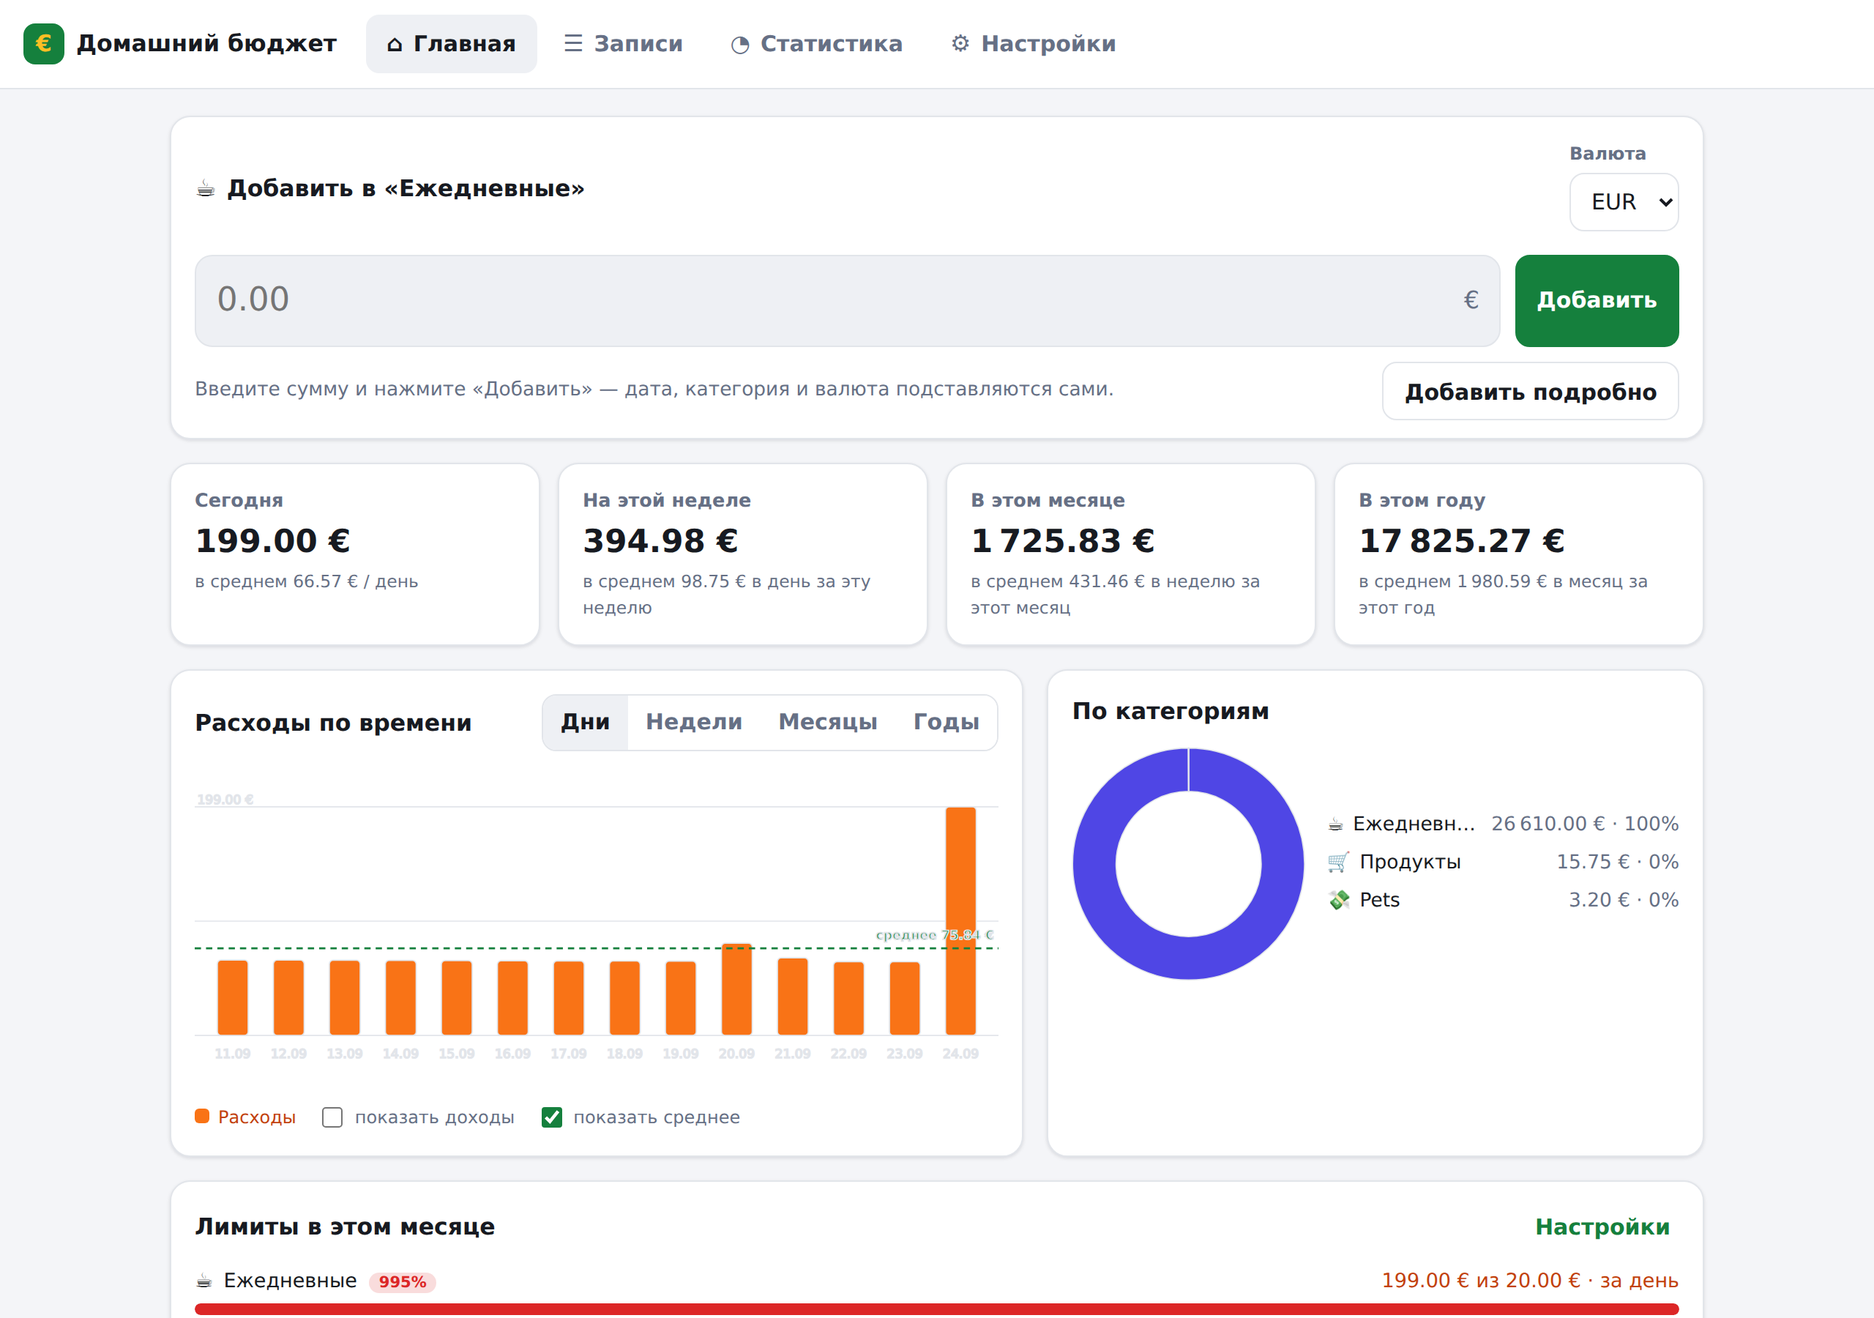
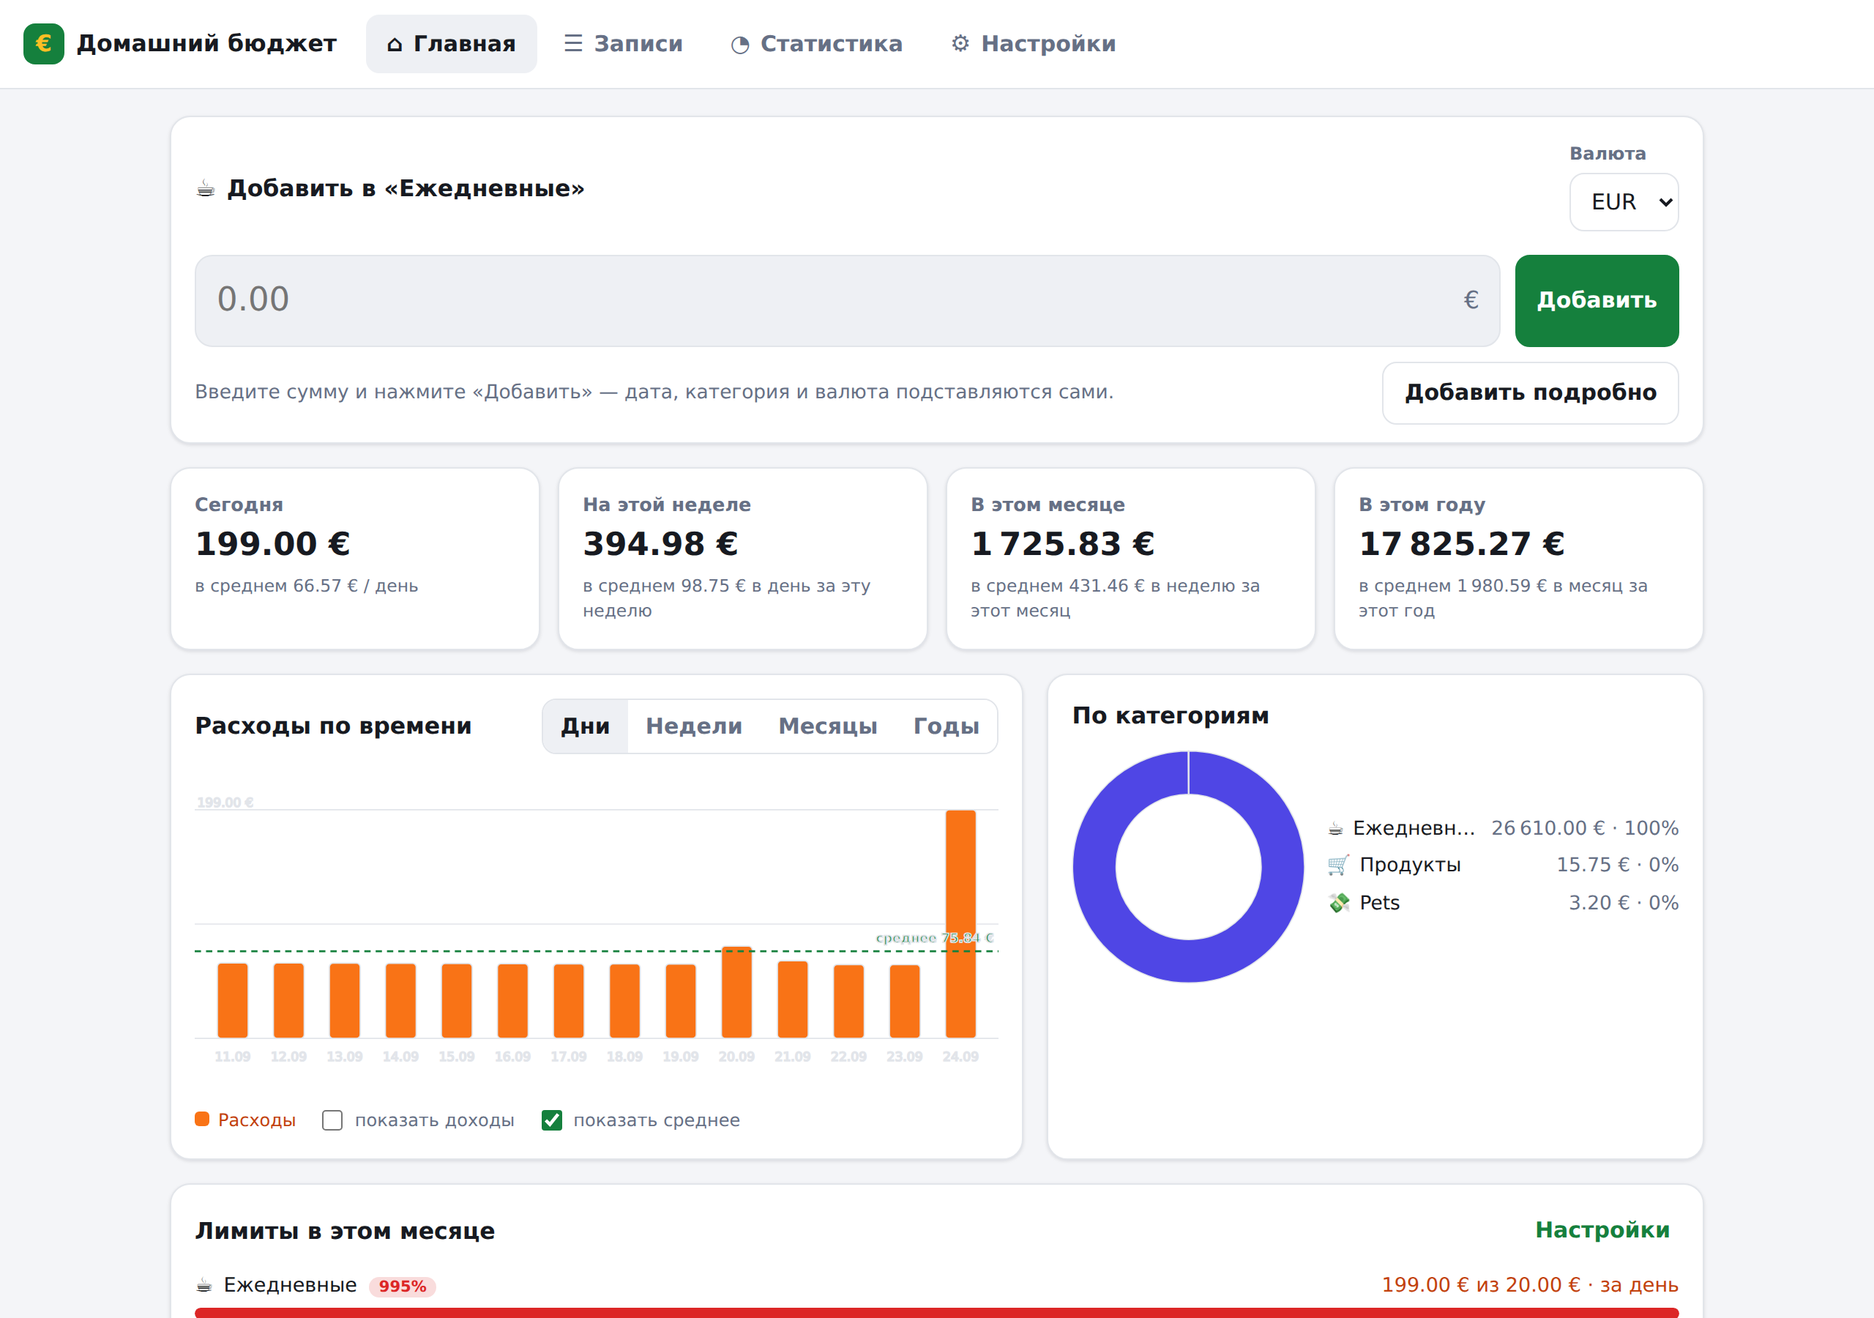
version 3.13.0

diff --git a/src/app.css b/src/app.css
@@ -200,7 +200,7 @@ button, input, select { font: inherit; color: inherit; }
    drops under the hint rather than squeezing it. */
 .quick-more { display: flex; flex-wrap: wrap; align-items: center; gap: 10px; margin-top: 10px; }
 .quick-more .quick-hint { flex: 1 1 220px; margin: 0; }
-.quick-more button { height: var(--control-height); white-space: nowrap; }
+.quick-more button { white-space: nowrap; }
 .quick-message { margin-top: 8px; font-size: .88rem; min-height: 1.2em; color: var(--muted); }
 .quick-message.ok { color: var(--income); }
 .quick-message.error { color: var(--danger); }
@@ -289,6 +289,11 @@ input:focus-visible, select:focus-visible, button:focus-visible {
   display: grid;
   grid-template-rows: auto auto auto;
   align-content: start;
+  /* Each part sits at the top of its row instead of stretching to fill it. When
+     something in the line is taller than a control - two buttons that had to
+     take a line each in a longer language - a control that stretches centres
+     itself in that height and drops below its neighbours. */
+  align-items: start;
   padding-bottom: 8px;
 }
 @supports (grid-template-rows: subgrid) {
@@ -299,16 +304,41 @@ input:focus-visible, select:focus-visible, button:focus-visible {
     min-height: calc(var(--label-height) * 2);
   }
 }
+/* A <select> is as wide as its widest option and an <input> as wide as its size
+   attribute. In a grid that means spilling over the cell next door: "Все
+   категории ☕ Ежедневные" pushed the currency filter 45 pixels under the search
+   box beside it. Inside a row of fields a control is the width of its cell, and
+   min-width: 0 is what lets it actually shrink to that. */
+.filters > .field > select,
+.filters > .field > input,
+.filters > .field > .date-input,
+.inline-form > .field > select,
+.inline-form > .field > input { width: 100%; min-width: 0; }
+/* The date field is a text box and a calendar button sharing that width. */
+.filters > .field > .date-input .date-text { flex: 1 1 auto; width: auto; min-width: 0; }
+
 /* The error message is a sentence, not a field: it takes the whole width. */
 .inline-form > .error { grid-column: 1 / -1; margin: 0; }
-.filter-buttons { display: flex; gap: 8px; }
 .filters-box { margin-bottom: 4px; }
 .filters-box > summary { cursor: pointer; color: var(--muted); font-weight: 600; font-size: .85rem; padding: 4px 0; }
 .filters-box[open] > summary { margin-bottom: 8px; }
 .entry-row { cursor: pointer; }
 /* Buttons that stand in a row with form controls are exactly as tall as they are. */
+/* A button standing in a row with form controls is never shorter than they are,
+   so the row reads as one line - but never taller than its own words either.
+   `height` used to be exact here, which looked right in English and spilled the
+   text of a longer language straight out of the button: "В этом месяце" wrapped
+   to two lines inside a 40 pixel box and printed the second one over the card. */
 .inline-form button, .filters button, .button-row > button, .file-button,
-.install-row button { height: var(--control-height); }
+.install-row button, .quick-more button {
+  min-height: var(--control-height);
+  height: auto;
+}
+/* Two buttons sharing one cell of the field grid. When their words do not fit
+   side by side they take a line each, full width, rather than shrinking into
+   columns too narrow for a word - which is what pushed "Сбросить" off screen. */
+.filter-buttons { display: flex; flex-wrap: wrap; gap: 8px; }
+.filter-buttons > button { flex: 1 1 auto; }
 
 /* ---------- lists and tables ---------- */
 .summary { display: flex; flex-wrap: wrap; gap: 16px; margin: 12px 0; font-size: .9rem; font-weight: 600; }
@@ -469,6 +499,9 @@ svg .grid { fill: none; }
 /* ---------- transfer ---------- */
 .transfer { display: grid; grid-template-columns: 1fr 1fr; gap: 16px; }
 .transfer-block { display: flex; flex-direction: column; gap: 8px; }
+/* The file chooser is a button, so it is as wide as its word - not as wide
+   as the column, which is what a stretched flex child would be. */
+.transfer-block > .file-button { align-self: start; }
 .transfer-block h3 { font-size: .95rem; }
 .import-preview {
   margin-top: 16px;
@@ -505,6 +538,8 @@ svg .grid { fill: none; }
   body[data-mode="auto"] .grid,
   body[data-mode="auto"] .transfer { grid-template-columns: 1fr; }
   body[data-mode="auto"] .app-bar { gap: 10px; }
+  body[data-mode="auto"] .tab { padding: 8px 10px; }
+  body[data-mode="auto"] .brand { white-space: nowrap; }
   body[data-mode="auto"] .hide-sm { display: none; }
   body[data-mode="auto"] .main { padding: 14px 12px 32px; }
 }
@@ -515,8 +550,14 @@ body[data-mode="mobile"] .transfer { grid-template-columns: 1fr; }
 body[data-mode="mobile"] .hide-sm { display: none; }
 body[data-mode="mobile"] .main { max-width: 560px; padding: 14px 12px 32px; }
 body[data-mode="mobile"] .cards { grid-template-columns: repeat(2, 1fr); }
-body[data-mode="mobile"] .app-bar { position: sticky; }
+body[data-mode="mobile"] .app-bar { position: sticky; gap: 10px; }
 body[data-mode="mobile"] .tabs { flex: 1; justify-content: space-around; }
+/* The bar has one line to fit a name and four tabs. "Home Budget" left room to
+   spare; "Haushaltsbudget" ran 7 pixels past the edge and "Домашний бюджет"
+   wrapped, which made the sticky bar twice as tall on every screen. The icons
+   are what give the room back - they do not need the padding of a word. */
+body[data-mode="mobile"] .tab { padding: 8px 10px; }
+body[data-mode="mobile"] .brand { white-space: nowrap; }
 
 /* The narrow layout, whichever way it was reached. */
 @media (max-width: 720px) {
@@ -536,8 +577,6 @@ body[data-mode="mobile"] .tabs { flex: 1; justify-content: space-around; }
   body[data-mode="auto"] .rate-input { width: 84px; }
   /* Two selects fit a phone; a third squeezed to nothing. */
   body[data-mode="auto"] .filters > .field { flex: 1 1 140px; }
-  body[data-mode="auto"] .filters select,
-  body[data-mode="auto"] .filters input { width: 100%; }
   body[data-mode="auto"] .inline-form > .field { flex: 1 1 130px; }
   body[data-mode="auto"] .translation-table { max-height: 260px; }
 }
@@ -552,8 +591,6 @@ body[data-mode="mobile"] th,
 body[data-mode="mobile"] td { padding-left: 5px; padding-right: 5px; }
 body[data-mode="mobile"] .rate-input { width: 84px; }
 body[data-mode="mobile"] .filters > .field { flex: 1 1 140px; }
-body[data-mode="mobile"] .filters select,
-body[data-mode="mobile"] .filters input { width: 100%; }
 body[data-mode="mobile"] .inline-form > .field { flex: 1 1 130px; }
 body[data-mode="mobile"] .translation-table { max-height: 260px; }
 

diff --git a/src/ui/views/settings.js b/src/ui/views/settings.js
@@ -4,7 +4,7 @@ import { CUSTOM_LANGUAGE, EN, LANGUAGES, sanitizeTranslation, translationKeys } 
 import { formatMoney, parseAmount, toPlainAmount } from '../../core/format.js';
 import { ICON_CHOICES, LIMIT_PERIODS } from '../../core/model.js';
 import { APP_VERSION, REPO_URL, SITE_URL } from '../../core/version.js';
-import { actionButton, el, field, fieldSlot, options, render } from '../dom.js';
+import { actionButton, el, field, fieldSlot, fileButton, options, render } from '../dom.js';
 import { download, MIME } from '../files.js';
 
 export function settingsView(app) {
@@ -159,13 +159,7 @@ export function settingsView(app) {
       el('p.muted', { text: t('settings.dataHint', { storage: app.storageKind }) }),
       el('div.button-row', {}, [
         el('button', { type: 'button', text: t('settings.backup'), on: { click: () => backup(app) } }),
-        el('label.file-button', {}, [
-          t('settings.restore'),
-          el('input', {
-            type: 'file', accept: '.json', hidden: true,
-            on: { change: (event) => restore(app, event.target.files[0]) },
-          }),
-        ]),
+        fileButton(t('settings.restore'), '.json', (file) => restore(app, file)),
         el('button.danger', { type: 'button', text: t('settings.deleteAll'), on: { click: () => app.clearEntries() } }),
         el('button.danger', { type: 'button', text: t('settings.resetAll'), on: { click: () => app.resetAll() } }),
       ]),
@@ -219,13 +213,7 @@ function translationCard(app) {
           },
         },
       }),
-      el('label.file-button', {}, [
-        t('settings.translationImport'),
-        el('input', {
-          type: 'file', accept: '.json', hidden: true,
-          on: { change: (event) => loadTranslation(app, event.target.files[0]) },
-        }),
-      ]),
+      fileButton(t('settings.translationImport'), '.json', (file) => loadTranslation(app, file)),
     ]),
   ]);
 }

diff --git a/src/core/i18n.js b/src/core/i18n.js
@@ -145,6 +145,7 @@ export const EN = {
   'transfer.title': 'Export and import',
   'transfer.exportTitle': 'Export everything the filters match',
   'transfer.importTitle': 'Import from CSV or Excel',
+  'transfer.chooseFile': 'Choose a file',
   'transfer.importHint': 'Columns are detected automatically; you can correct them before importing.',
   'transfer.exported': 'Exported {count} entries to {format}',
   'transfer.readError': 'Could not read the file: {message}',
@@ -383,6 +384,7 @@ export const RU = {
   'transfer.title': 'Экспорт и импорт',
   'transfer.exportTitle': 'Экспорт всех записей по фильтру',
   'transfer.importTitle': 'Импорт из CSV или Excel',
+  'transfer.chooseFile': 'Выбрать файл',
   'transfer.importHint': 'Колонки определяются автоматически, перед импортом их можно поправить.',
   'transfer.exported': 'Экспортировано записей: {count} ({format})',
   'transfer.readError': 'Не удалось прочитать файл: {message}',
@@ -621,6 +623,7 @@ export const DE = {
   'transfer.title': 'Export und Import',
   'transfer.exportTitle': 'Alles exportieren, was die Filter treffen',
   'transfer.importTitle': 'Import aus CSV oder Excel',
+  'transfer.chooseFile': 'Datei wählen',
   'transfer.importHint': 'Die Spalten werden automatisch erkannt und können vor dem Import geändert werden.',
   'transfer.exported': '{count} Einträge als {format} exportiert',
   'transfer.readError': 'Datei konnte nicht gelesen werden: {message}',

diff --git a/src/ui/dom.js b/src/ui/dom.js
@@ -89,6 +89,35 @@ export function actionButton({ icon, label, danger = false, onClick, extraClass 
 }
 
 /**
+ * A file chooser that looks like the app's other buttons and speaks its
+ * language.
+ *
+ * A bare `<input type="file">` draws the browser's own control, and the words on
+ * it - "Choose File", "No file chosen" - are written by the browser in the
+ * browser's language, so English text sits in the middle of a Russian page. The
+ * input is still there, because it is what opens the dialog; it is just hidden
+ * behind a label that carries the app's own word.
+ *
+ * Clearing the value afterwards is what lets the same file be picked twice in a
+ * row: `change` only fires when the value differs from the last one.
+ */
+export function fileButton(label, accept, onPick) {
+  return el('label.file-button', {}, [
+    label,
+    el('input', {
+      type: 'file', accept, hidden: true,
+      on: {
+        change: (event) => {
+          const file = event.target.files[0];
+          event.target.value = '';
+          onPick(file);
+        },
+      },
+    }),
+  ]);
+}
+
+/**
  * A cell in a row of fields that has no label of its own - a pair of buttons, a
  * submit. The empty label keeps it on the same rows as the fields beside it, so
  * nothing has to guess a margin when a label next to it wraps to two lines.

diff --git a/src/ui/transfer.js b/src/ui/transfer.js
@@ -7,7 +7,7 @@ import {
 import { formatDate, formatMoney } from '../core/format.js';
 import { convertRows, describeImport, detectStructure } from '../core/importer.js';
 import { parseXlsx } from '../core/xlsx.js';
-import { el, field, options, render } from './dom.js';
+import { el, field, fileButton, options, render } from './dom.js';
 import { download, MIME, readAsBytes, readAsText } from './files.js';
 
 const FIELD_KEYS = {
@@ -30,10 +30,7 @@ export function transferPanel(app, entries) {
       ]),
       el('div.transfer-block', {}, [
         el('h3', { text: t('transfer.importTitle') }),
-        el('input', {
-          type: 'file', accept: '.csv,.txt,.tsv,.xlsx',
-          on: { change: (event) => pickFile(app, event.target.files[0]) },
-        }),
+        fileButton(t('transfer.chooseFile'), '.csv,.txt,.tsv,.xlsx', (file) => pickFile(app, file)),
         el('p.muted', { text: t('transfer.importHint') }),
       ]),
     ]),

diff --git a/src/core/version.js b/src/core/version.js
@@ -2,7 +2,7 @@
  * The single place where the application version lives.
  * The build stamps it into the file name, the bundle banner and the page.
  */
-export const APP_VERSION = '3.12.0';
+export const APP_VERSION = '3.13.0';
 
 /**
  * Where the app lives. Both are shown in Settings -> About and written into the

diff --git a/README.md b/README.md
@@ -1,4 +1,4 @@
-# Home Budget 3.12.0 (browser version)
+# Home Budget 3.13.0 (browser version)
 
 <table>
 <tr>
@@ -151,7 +151,7 @@ to export a backup and start a fresh file, or to remove old entries.
 
 ## Using it
 
-Open `home-budget-3.12.0.html` (or `home-budget.html`, the same build under a name that never changes)
+Open `home-budget-3.13.0.html` (or `home-budget.html`, the same build under a name that never changes)
 in any modern browser - Chrome, Edge, Firefox, Safari. Nothing to install. Amounts are stored as whole
 cents, so no rounding errors creep in. Data saved by an older version is upgraded automatically on first
 start: entries and categories are kept, and anything new (icons, limit periods, currency rates, currency
@@ -191,7 +191,7 @@ It is live at **https://mm3.github.io/home-budget-web/**, and the same build dow
 
 To publish: enable **Settings → Pages → Source: GitHub Actions** once. `.github/workflows/pages.yml`
 then tests, builds and deploys every push to `main`, and `.github/workflows/release.yml` attaches the
-built files to a release when a tag like `v3.12.0` is pushed.
+built files to a release when a tag like `v3.13.0` is pushed.
 
 ## Building
 
@@ -308,7 +308,7 @@ labels, deleting entries versus resetting everything, version consistency, trans
 for files with and without headers. The run **fails below 90%** line, branch and function coverage of
 `src/core`; it currently sits at about 99% lines, 95% branches.
 
-`tools/browser-check.mjs` additionally drives the built file in headless Chromium (49 checks): it adds
+`tools/browser-check.mjs` additionally drives the built file in headless Chromium (50 checks): it adds
 an entry through the quick form, checks that it is stored and survives a reload, exports CSV/XLSX/PDF
 and verifies the produced bytes (including the chart parts and the embedded font), exports a Russian
 PDF and asserts it contains real Cyrillic and no question marks, imports a semicolon-separated German
@@ -317,8 +317,10 @@ settings editor, checks the version stamp, the cache and web app metadata, the a
 bars with their periods, the ruble, the currency flags and that no two currencies share a symbol,
 confirms that deleting the entries keeps the settings while resetting really restores the defaults,
 **measures every row of form controls** - in the cards, in the filters and in the dialogs, at a desktop
-width and again at 390 pixels - and fails when a label of a different length, a label that wraps to two
-lines or a hint under one field pushes its control off the line its neighbours sit on, checks that a
+width and again at 390 pixels, **in all three languages** - and fails when a label of a different
+length pushes its control off the line its neighbours sit on, when a control lies on top of the one
+beside it, or when a button's words spill outside it; it also checks that the name and the tabs share
+one line of the top bar in every language, checks that a
 phone can still reach the edit and delete actions of every table row and that they are big enough to
 hit, adds five thousand entries at once to check that the list pages instead of drawing
 them all, refuses the amounts that would break the totals, checks that no native date input is left in the page

diff --git a/CHANGELOG.md b/CHANGELOG.md
@@ -4,6 +4,40 @@ Newest first. The pull-request script reads this file: a pull request describes
 only the versions above the one the target repository is on, so the description
 is always the difference from the release being replaced.
 
+## 3.13.0
+
+**The interface was measured in one language and broke in the other two.** Every
+fault below was there in Russian and German while the checks, which ran in
+English only, said the layout was fine.
+
+- **Controls lay on top of each other.** A `<select>` is as wide as its widest
+  option and refuses to shrink below it, so "Все категории ☕ Ежедневные" reached
+  45 pixels across the search box in the cell beside it. `min-width: 0` is what
+  lets a grid item shrink to its cell; controls in a row of fields now also fill
+  that cell, so the row looks deliberate rather than ragged.
+- **Words fell out of their buttons.** Buttons standing beside form controls had
+  an exact height, which looked right in English: "В этом месяце" wrapped to two
+  lines inside a 40 pixel box and printed the second one over the card, and
+  "Сбросить" was pushed off the screen entirely. A button is now never *shorter*
+  than the controls beside it and never taller than its own words, and two
+  buttons sharing a cell take a line each when they do not fit side by side.
+- **The name and the tabs no longer share the top bar unevenly.** "Домашний
+  бюджет" wrapped, doubling the height of a sticky bar on every screen, and
+  "Haushaltsbudget" ran seven pixels past the right edge. The tab icons give
+  back the padding they do not need, and all three languages fit one line.
+- **The import button spoke the browser's language, not the app's.** A bare
+  `<input type="file">` draws the browser's own control, so "Choose File / No
+  file chosen" sat in English in the middle of a Russian page. All three file
+  choosers in the app now share one helper, carry the app's own word, and clear
+  themselves afterwards - which also fixes picking the same file twice in a row,
+  where `change` never fired because the value had not changed.
+
+The alignment check now runs **in all three languages** at both widths, and looks
+for two things it never did: a control overlapping its neighbour, and text
+spilling outside the box that holds it. Reverting each fix makes it fail, and it
+named faults in English too that nobody had noticed - "Add currency" had been
+spilling all along.
+
 ## 3.12.0
 
 **A deploy no longer installs a browser or touches the kernel.** Both workflows
